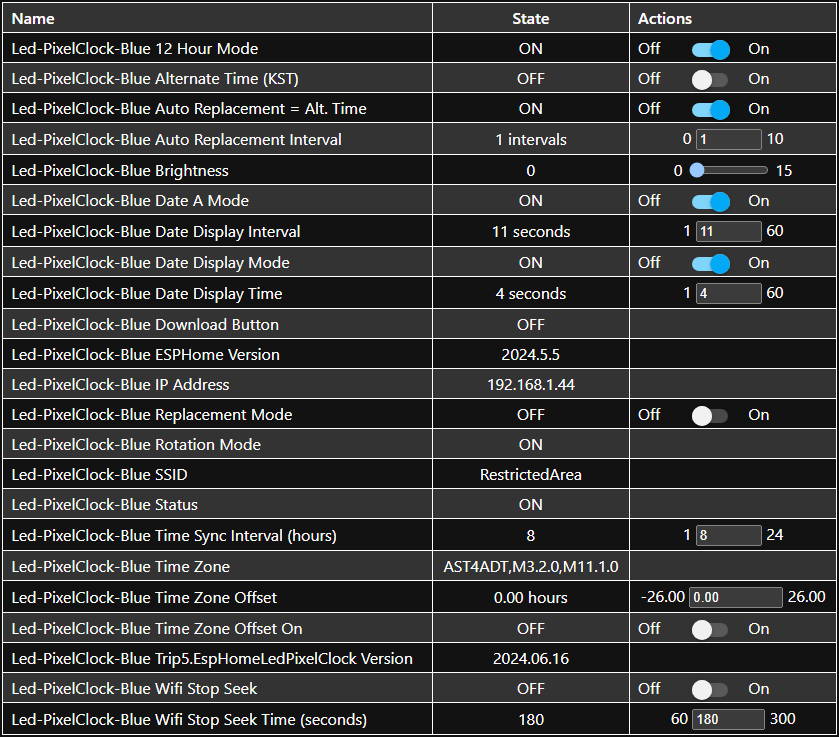
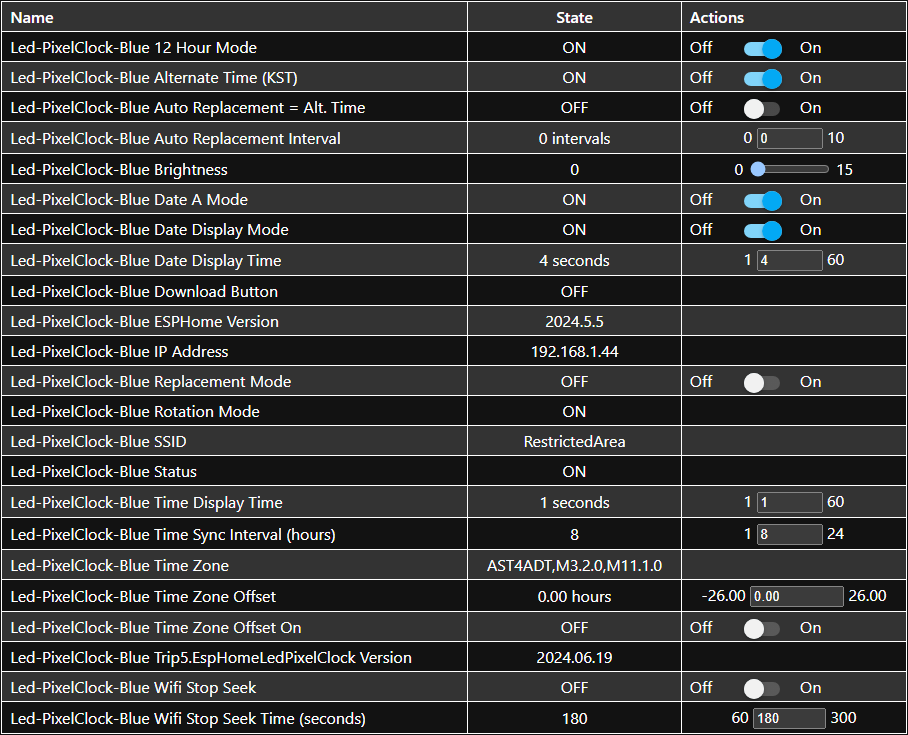
Fixed display times

diff --git a/README.md b/README.md
@@ -204,6 +204,7 @@ I've found anything below 8kB available to the heap can cause constant crashes.
 
 | Date       | Release Notes    |
 | ---------- | ---------------- |
+| 2024.06.19 | Fixed display times |
 | 2024.06.16 | Added Home Assistant version, major changes to main version, fixed time sync error |
 | 2024.06.09 | Replacement Interval fix |
 | 2024.01.07 | Time/Date Text Replacement |
